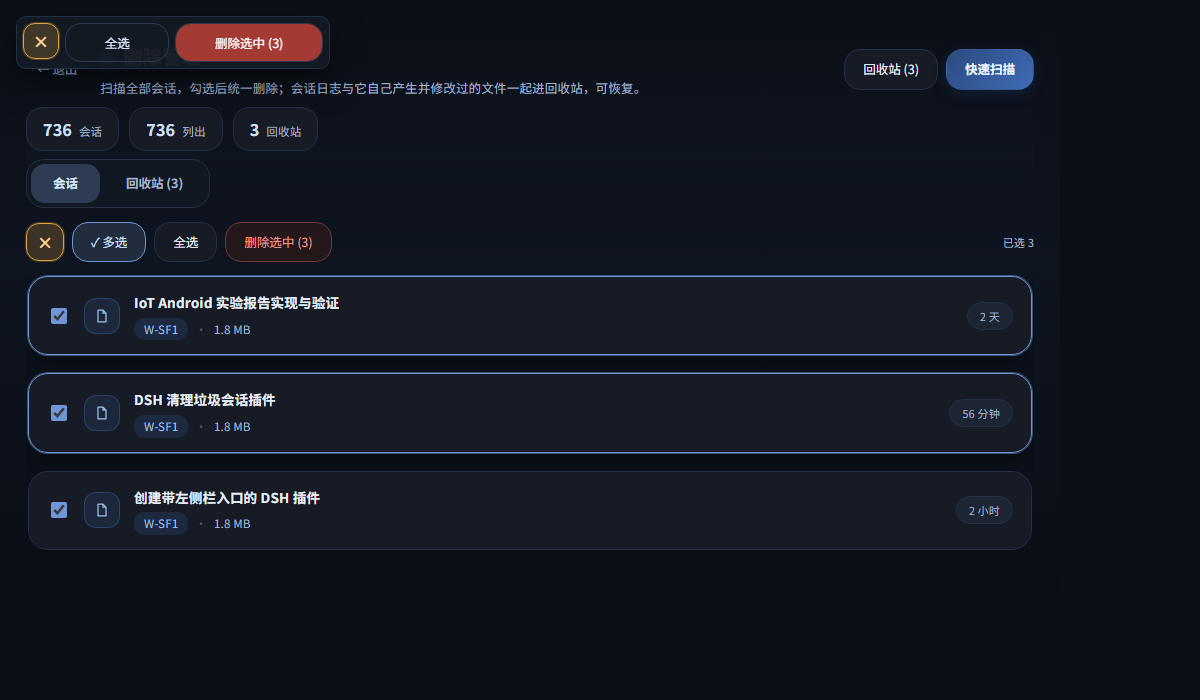
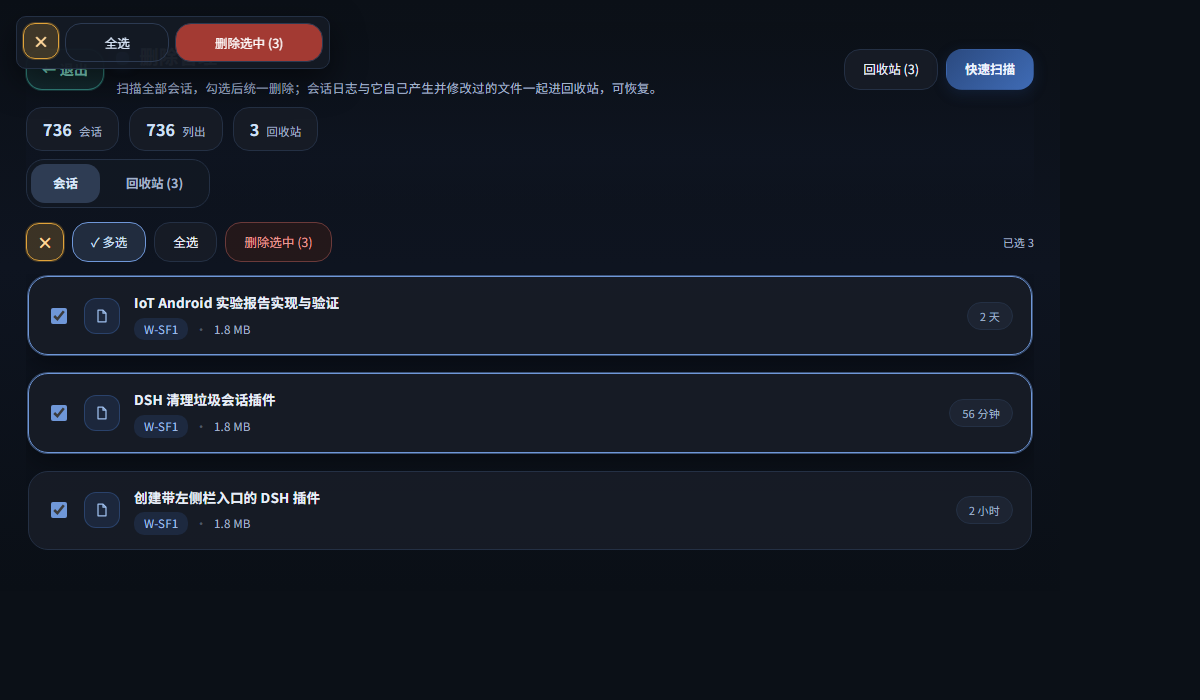
style: 退出按钮改青绿语义并放大字号（1.2.5）

Changed region(s): [[0.0308, 0.09, 0.555, 0.15]]

diff --git a/preview.html b/preview.html
@@ -1,6 +1,6 @@
 <!doctype html><html lang="zh"><head><meta charset="utf-8">
 <style>body{margin:0;background:#0b1017;font-family:"Noto Sans SC","Microsoft YaHei UI",sans-serif}
-html .__md_page{display:flex;flex-direction:column;gap:12px;max-width:1060px;height:100%;overflow-y:auto;overflow-x:hidden;padding:22px 26px 30px;font-size:13px;box-sizing:border-box;font-family:"Noto Sans SC","Microsoft YaHei UI","Microsoft YaHei","Segoe UI",system-ui,sans-serif;letter-spacing:.2px;line-height:1.65;--md-ink:#e8eef8;--md-ink2:#a3b3c9;--md-card:rgba(23,28,38,.94);--md-card2:rgba(30,36,48,.92);--md-line:#243044;--md-accent:#3f6bb5;--md-accent2:#6f97d8;--md-accent-deep:#2b4a80;color:var(--md-ink);background:linear-gradient(180deg,#0b1017 0%,#0e1420 45%,#0a0f16 100%)}.__md_page::-webkit-scrollbar{width:10px}.__md_page::-webkit-scrollbar-thumb{background:rgba(120,150,190,.28);border-radius:6px}.__md_sticky{position:sticky;top:-22px;z-index:4;display:flex;flex-direction:column;gap:8px;padding:18px 0 2px;background:linear-gradient(180deg,rgba(11,16,23,.98) 0%,rgba(14,20,32,.94) 72%,rgba(10,15,22,0) 100%)}.__md_head{display:flex;align-items:center;gap:12px}.__md_headText{flex:1 1 auto;min-width:0}.__md_title{font-size:19px;font-weight:700;margin:0;letter-spacing:.5px;color:var(--md-ink)}.__md_title:before{content:"";display:inline-block;width:13px;height:13px;border-radius:5px;margin-right:10px;vertical-align:-1px;background:linear-gradient(135deg,var(--md-accent2),var(--md-accent));box-shadow:0 0 12px rgba(63,107,181,.55)}.__md_sub{margin:6px 0 0;font-size:12.5px;line-height:1.7;color:var(--md-ink2)}.__md_row{display:flex;align-items:center;gap:8px;flex-wrap:wrap}.__md_btn{border:1px solid var(--md-line);background:var(--md-card);color:var(--md-ink);border-radius:16px;padding:9px 18px;font:inherit;font-size:12.5px;cursor:pointer;white-space:nowrap;transition:transform .1s ease,border-color .18s,color .18s,background .18s}.__md_btn:hover:not(:disabled){border-color:var(--md-accent2);color:#cfe0f8;transform:translateY(-1px)}.__md_btnExit:hover:not(:disabled){border-color:transparent;background:rgba(32,40,54,.9);color:#cfe0f8;transform:none}.__md_btn:disabled{opacity:.4;cursor:default}.__md_btnPrimary{border-color:transparent;background:linear-gradient(135deg,var(--md-accent-deep),var(--md-accent));color:#eef4ff;font-weight:600;box-shadow:0 4px 14px rgba(30,60,110,.32)}.__md_btnPrimary:hover:not(:disabled){color:#fff;border-color:transparent}.__md_btnDanger{border-color:#6b3a3a;color:#e79c96;background:rgba(38,24,26,.9)}.__md_btnSoft{border-color:#2c4472;color:#a8c4ea;background:rgba(26,36,54,.9)}.__md_btnActive{border-color:var(--md-accent2);color:#cfe0f8;background:rgba(35,45,64,.95)}.__md_btnExit{border-color:transparent;background:transparent;color:#8fa4c0;font-weight:500;padding:6px 10px;box-shadow:none}.__md_btnClose{border-color:#e0a33a;color:#ffd79a;background:rgba(224,163,58,.22);font-weight:600;font-size:16px;line-height:1;letter-spacing:0;box-shadow:0 0 0 1px rgba(224,163,58,.28);padding:0;width:38px;min-width:38px;height:38px;border-radius:13px;display:inline-flex;align-items:center;justify-content:center}.__md_btnClose:hover:not(:disabled){border-color:#f0b455;color:#ffe6bb;background:rgba(224,163,58,.32);box-shadow:0 0 0 2px rgba(224,163,58,.3)}.__md_metaBar{display:flex;gap:10px;flex-wrap:wrap}.__md_stat{display:flex;align-items:baseline;gap:7px;padding:8px 16px;border-radius:16px;background:var(--md-card);border:1px solid var(--md-line)}.__md_stat b{font-size:16px;font-weight:700;color:#cfe0f8;font-variant-numeric:tabular-nums}.__md_stat i{font-style:normal;font-size:11.5px;color:var(--md-ink2)}.__md_tabs{display:inline-flex;gap:4px;padding:4px;border-radius:18px;background:rgba(18,24,34,.9);border:1px solid var(--md-line);width:max-content}.__md_tab{border:none;background:transparent;color:var(--md-ink2);font:inherit;font-size:12.5px;padding:9px 22px;border-radius:14px;cursor:pointer;font-weight:600;transition:background .18s,color .18s}.__md_tabOn{background:rgba(48,62,86,.95);color:#dbe8fa}.__md_toolbar{display:flex;align-items:center;gap:8px;flex-wrap:wrap;padding:0}.__md_list{display:flex;flex-direction:column;gap:9px;max-height:calc(100vh - 340px);overflow-y:auto;padding:2px;min-height:160px}.__md_card{display:flex;align-items:center;gap:14px;padding:14px 18px;border-radius:20px;background:var(--md-card);border:1px solid var(--md-line);transition:transform .12s ease,border-color .18s,background .18s}.__md_card:hover{transform:translateY(-1px);background:var(--md-card2);border-color:#31415c}.__md_cardOn{border-color:var(--md-accent2);box-shadow:0 0 0 1px rgba(111,151,216,.5),0 10px 26px rgba(0,0,0,.35)}.__md_avatar{width:34px;height:34px;border-radius:12px;flex:none;display:flex;align-items:center;justify-content:center;color:#9fc0ee;background:rgba(63,107,181,.16);border:1px solid rgba(63,107,181,.4)}.__md_item{min-width:0;flex:1 1 auto}.__md_itemTitle{overflow:hidden;text-overflow:ellipsis;white-space:nowrap;font-size:13.5px;font-weight:600;letter-spacing:.2px;color:var(--md-ink)}.__md_itemMeta{display:flex;align-items:center;gap:7px;margin-top:4px;font-size:11.5px;color:var(--md-ink2);overflow:hidden;white-space:nowrap}.__md_tag{padding:2px 10px;border-radius:10px;background:rgba(63,107,181,.18);color:#9fbde6;max-width:230px;overflow:hidden;text-overflow:ellipsis}.__md_dot{opacity:.4}.__md_right{display:flex;align-items:center;gap:9px;flex:none}.__md_pill{font-size:11px;color:#9fb0c8;padding:4px 12px;border-radius:999px;background:rgba(30,38,52,.9);border:1px solid var(--md-line);white-space:nowrap}.__md_empty{padding:40px 16px;text-align:center;color:var(--md-ink2);font-size:12.5px;display:flex;flex-direction:column;align-items:center}.__md_notice{font-size:12px;color:#a9c8ee;background:rgba(26,38,58,.9);border:1px solid #2c4472;border-radius:14px;padding:10px 14px;white-space:pre-wrap}.__md_err{font-size:12px;color:#efa9a3;background:rgba(44,26,28,.92);border:1px solid #6b3a3a;border-radius:14px;padding:10px 14px;white-space:pre-wrap}.__md_hint{font-size:11px;color:var(--md-ink2)}.__md_check{accent-color:var(--md-accent2);cursor:pointer;width:16px;height:16px;flex:none}.__md_iconBtn{border:none;background:rgba(32,40,54,.85);color:#8fa4c0;cursor:pointer;padding:6px;border-radius:11px;display:inline-flex;align-items:center;transition:color .18s,background .18s}.__md_iconBtn:hover{color:#f0a8a2;background:rgba(60,32,34,.9)}.__md_mask,.__md_bar{--md-ink:#e8eef8;--md-ink2:#93a1b8;--md-card:rgba(23,28,38,.94);--md-card2:rgba(30,36,48,.92);--md-line:#243044;--md-accent:#3f6bb5;--md-accent2:#6f97d8;--md-accent-deep:#2b4a80;color:#e8eef8}.__md_mask{position:fixed;inset:0;background:rgba(3,7,12,.66);backdrop-filter:blur(4px);display:flex;align-items:center;justify-content:center;z-index:1000}.__md_dialog{width:min(560px,92vw);background:linear-gradient(180deg,#161c27,#111721);color:var(--md-ink);border:1px solid var(--md-line);border-radius:24px;padding:26px 28px;display:flex;flex-direction:column;gap:13px;box-shadow:0 30px 80px rgba(0,0,0,.6)}.__md_dialogTitle{font-size:16px;font-weight:700;margin:0;letter-spacing:.4px}.__md_dialogBody{font-size:12.5px;color:var(--md-ink2);white-space:pre-wrap;margin:0;line-height:1.7}.__md_dialogList{max-height:150px;overflow:auto;border:1px solid var(--md-line);border-radius:14px;padding:9px 13px;font-size:12px;background:rgba(18,24,34,.9)}.__md_dialogList div{overflow:hidden;text-overflow:ellipsis;white-space:nowrap;padding:2px 0}.__md_opt{display:flex;gap:10px;align-items:flex-start;font-size:12px;padding:12px 14px;border:1px solid var(--md-line);border-radius:16px;background:rgba(24,31,42,.9)}.__md_files{margin:0;padding-left:18px;font-size:11.5px;color:var(--md-ink2);max-height:120px;overflow:auto}</style></head><body>
+html .__md_page{display:flex;flex-direction:column;gap:12px;max-width:1060px;height:100%;overflow-y:auto;overflow-x:hidden;padding:22px 26px 30px;font-size:13px;box-sizing:border-box;font-family:"Noto Sans SC","Microsoft YaHei UI","Microsoft YaHei","Segoe UI",system-ui,sans-serif;letter-spacing:.2px;line-height:1.65;--md-ink:#e8eef8;--md-ink2:#a3b3c9;--md-card:rgba(23,28,38,.94);--md-card2:rgba(30,36,48,.92);--md-line:#243044;--md-accent:#3f6bb5;--md-accent2:#6f97d8;--md-accent-deep:#2b4a80;color:var(--md-ink);background:linear-gradient(180deg,#0b1017 0%,#0e1420 45%,#0a0f16 100%)}.__md_page::-webkit-scrollbar{width:10px}.__md_page::-webkit-scrollbar-thumb{background:rgba(120,150,190,.28);border-radius:6px}.__md_sticky{position:sticky;top:-22px;z-index:4;display:flex;flex-direction:column;gap:8px;padding:18px 0 2px;background:linear-gradient(180deg,rgba(11,16,23,.98) 0%,rgba(14,20,32,.94) 72%,rgba(10,15,22,0) 100%)}.__md_head{display:flex;align-items:center;gap:12px}.__md_headText{flex:1 1 auto;min-width:0}.__md_title{font-size:19px;font-weight:700;margin:0;letter-spacing:.5px;color:var(--md-ink)}.__md_title:before{content:"";display:inline-block;width:13px;height:13px;border-radius:5px;margin-right:10px;vertical-align:-1px;background:linear-gradient(135deg,var(--md-accent2),var(--md-accent));box-shadow:0 0 12px rgba(63,107,181,.55)}.__md_sub{margin:6px 0 0;font-size:12.5px;line-height:1.7;color:var(--md-ink2)}.__md_row{display:flex;align-items:center;gap:8px;flex-wrap:wrap}.__md_btn{border:1px solid var(--md-line);background:var(--md-card);color:var(--md-ink);border-radius:16px;padding:9px 18px;font:inherit;font-size:12.5px;cursor:pointer;white-space:nowrap;transition:transform .1s ease,border-color .18s,color .18s,background .18s}.__md_btn:hover:not(:disabled){border-color:var(--md-accent2);color:#cfe0f8;transform:translateY(-1px)}.__md_btnExit:hover:not(:disabled){border-color:#5fd6c2;background:rgba(72,196,180,.24);color:#b8f4ea;transform:none;box-shadow:0 0 0 2px rgba(72,196,180,.28)}.__md_btn:disabled{opacity:.4;cursor:default}.__md_btnPrimary{border-color:transparent;background:linear-gradient(135deg,var(--md-accent-deep),var(--md-accent));color:#eef4ff;font-weight:600;box-shadow:0 4px 14px rgba(30,60,110,.32)}.__md_btnPrimary:hover:not(:disabled){color:#fff;border-color:transparent}.__md_btnDanger{border-color:#6b3a3a;color:#e79c96;background:rgba(38,24,26,.9)}.__md_btnSoft{border-color:#2c4472;color:#a8c4ea;background:rgba(26,36,54,.9)}.__md_btnActive{border-color:var(--md-accent2);color:#cfe0f8;background:rgba(35,45,64,.95)}.__md_btnExit{border-color:rgba(72,196,180,.6);background:rgba(72,196,180,.14);color:#8fe3d4;font-weight:600;font-size:14px;padding:8px 15px;letter-spacing:.3px;box-shadow:0 0 0 1px rgba(72,196,180,.22)}.__md_btnClose{border-color:#e0a33a;color:#ffd79a;background:rgba(224,163,58,.22);font-weight:600;font-size:16px;line-height:1;letter-spacing:0;box-shadow:0 0 0 1px rgba(224,163,58,.28);padding:0;width:38px;min-width:38px;height:38px;border-radius:13px;display:inline-flex;align-items:center;justify-content:center}.__md_btnClose:hover:not(:disabled){border-color:#f0b455;color:#ffe6bb;background:rgba(224,163,58,.32);box-shadow:0 0 0 2px rgba(224,163,58,.3)}.__md_metaBar{display:flex;gap:10px;flex-wrap:wrap}.__md_stat{display:flex;align-items:baseline;gap:7px;padding:8px 16px;border-radius:16px;background:var(--md-card);border:1px solid var(--md-line)}.__md_stat b{font-size:16px;font-weight:700;color:#cfe0f8;font-variant-numeric:tabular-nums}.__md_stat i{font-style:normal;font-size:11.5px;color:var(--md-ink2)}.__md_tabs{display:inline-flex;gap:4px;padding:4px;border-radius:18px;background:rgba(18,24,34,.9);border:1px solid var(--md-line);width:max-content}.__md_tab{border:none;background:transparent;color:var(--md-ink2);font:inherit;font-size:12.5px;padding:9px 22px;border-radius:14px;cursor:pointer;font-weight:600;transition:background .18s,color .18s}.__md_tabOn{background:rgba(48,62,86,.95);color:#dbe8fa}.__md_toolbar{display:flex;align-items:center;gap:8px;flex-wrap:wrap;padding:0}.__md_list{display:flex;flex-direction:column;gap:9px;max-height:calc(100vh - 340px);overflow-y:auto;padding:2px;min-height:160px}.__md_card{display:flex;align-items:center;gap:14px;padding:14px 18px;border-radius:20px;background:var(--md-card);border:1px solid var(--md-line);transition:transform .12s ease,border-color .18s,background .18s}.__md_card:hover{transform:translateY(-1px);background:var(--md-card2);border-color:#31415c}.__md_cardOn{border-color:var(--md-accent2);box-shadow:0 0 0 1px rgba(111,151,216,.5),0 10px 26px rgba(0,0,0,.35)}.__md_avatar{width:34px;height:34px;border-radius:12px;flex:none;display:flex;align-items:center;justify-content:center;color:#9fc0ee;background:rgba(63,107,181,.16);border:1px solid rgba(63,107,181,.4)}.__md_item{min-width:0;flex:1 1 auto}.__md_itemTitle{overflow:hidden;text-overflow:ellipsis;white-space:nowrap;font-size:13.5px;font-weight:600;letter-spacing:.2px;color:var(--md-ink)}.__md_itemMeta{display:flex;align-items:center;gap:7px;margin-top:4px;font-size:11.5px;color:var(--md-ink2);overflow:hidden;white-space:nowrap}.__md_tag{padding:2px 10px;border-radius:10px;background:rgba(63,107,181,.18);color:#9fbde6;max-width:230px;overflow:hidden;text-overflow:ellipsis}.__md_dot{opacity:.4}.__md_right{display:flex;align-items:center;gap:9px;flex:none}.__md_pill{font-size:11px;color:#9fb0c8;padding:4px 12px;border-radius:999px;background:rgba(30,38,52,.9);border:1px solid var(--md-line);white-space:nowrap}.__md_empty{padding:40px 16px;text-align:center;color:var(--md-ink2);font-size:12.5px;display:flex;flex-direction:column;align-items:center}.__md_notice{font-size:12px;color:#a9c8ee;background:rgba(26,38,58,.9);border:1px solid #2c4472;border-radius:14px;padding:10px 14px;white-space:pre-wrap}.__md_err{font-size:12px;color:#efa9a3;background:rgba(44,26,28,.92);border:1px solid #6b3a3a;border-radius:14px;padding:10px 14px;white-space:pre-wrap}.__md_hint{font-size:11px;color:var(--md-ink2)}.__md_check{accent-color:var(--md-accent2);cursor:pointer;width:16px;height:16px;flex:none}.__md_iconBtn{border:none;background:rgba(32,40,54,.85);color:#8fa4c0;cursor:pointer;padding:6px;border-radius:11px;display:inline-flex;align-items:center;transition:color .18s,background .18s}.__md_iconBtn:hover{color:#f0a8a2;background:rgba(60,32,34,.9)}.__md_mask,.__md_bar{--md-ink:#e8eef8;--md-ink2:#93a1b8;--md-card:rgba(23,28,38,.94);--md-card2:rgba(30,36,48,.92);--md-line:#243044;--md-accent:#3f6bb5;--md-accent2:#6f97d8;--md-accent-deep:#2b4a80;color:#e8eef8}.__md_mask{position:fixed;inset:0;background:rgba(3,7,12,.66);backdrop-filter:blur(4px);display:flex;align-items:center;justify-content:center;z-index:1000}.__md_dialog{width:min(560px,92vw);background:linear-gradient(180deg,#161c27,#111721);color:var(--md-ink);border:1px solid var(--md-line);border-radius:24px;padding:26px 28px;display:flex;flex-direction:column;gap:13px;box-shadow:0 30px 80px rgba(0,0,0,.6)}.__md_dialogTitle{font-size:16px;font-weight:700;margin:0;letter-spacing:.4px}.__md_dialogBody{font-size:12.5px;color:var(--md-ink2);white-space:pre-wrap;margin:0;line-height:1.7}.__md_dialogList{max-height:150px;overflow:auto;border:1px solid var(--md-line);border-radius:14px;padding:9px 13px;font-size:12px;background:rgba(18,24,34,.9)}.__md_dialogList div{overflow:hidden;text-overflow:ellipsis;white-space:nowrap;padding:2px 0}.__md_opt{display:flex;gap:10px;align-items:flex-start;font-size:12px;padding:12px 14px;border:1px solid var(--md-line);border-radius:16px;background:rgba(24,31,42,.9)}.__md_files{margin:0;padding-left:18px;font-size:11.5px;color:var(--md-ink2);max-height:120px;overflow:auto}</style></head><body>
 
 <div class="__md_bar" style="position:fixed;left:16px;top:16px;width:300px;z-index:45;display:flex;gap:6px;padding:6px;border-radius:10px;background:rgba(20,26,36,.97);border:1px solid #243044;box-shadow:0 12px 32px rgba(0,0,0,.5)">
   <button class="__md_btn __md_btnClose" style="flex:0 0 auto;width:36px;min-width:36px;height:36px;border-radius:12px;font-size:16px">×</button>

diff --git a/client.js b/client.js
@@ -389,7 +389,7 @@ window.__ModuleLoader__.load({
       '.__md_btn{border:1px solid var(--md-line);background:var(--md-card);color:var(--md-ink);border-radius:16px;padding:9px 18px;font:inherit;font-size:12.5px;cursor:pointer;',
       'white-space:nowrap;transition:transform .1s ease,border-color .18s,color .18s,background .18s}',
       '.__md_btn:hover:not(:disabled){border-color:var(--md-accent2);color:#cfe0f8;transform:translateY(-1px)}',
-      '.__md_btnExit:hover:not(:disabled){border-color:transparent;background:rgba(32,40,54,.9);color:#cfe0f8;transform:none}',
+      '.__md_btnExit:hover:not(:disabled){border-color:#5fd6c2;background:rgba(72,196,180,.24);color:#b8f4ea;transform:none;box-shadow:0 0 0 2px rgba(72,196,180,.28)}',
       '.__md_btn:disabled{opacity:.4;cursor:default}',
       '.__md_btnPrimary{border-color:transparent;background:linear-gradient(135deg,var(--md-accent-deep),var(--md-accent));color:#eef4ff;font-weight:600;',
       'box-shadow:0 4px 14px rgba(30,60,110,.32)}',
@@ -397,7 +397,7 @@ window.__ModuleLoader__.load({
       '.__md_btnDanger{border-color:#6b3a3a;color:#e79c96;background:rgba(38,24,26,.9)}',
       '.__md_btnSoft{border-color:#2c4472;color:#a8c4ea;background:rgba(26,36,54,.9)}',
       '.__md_btnActive{border-color:var(--md-accent2);color:#cfe0f8;background:rgba(35,45,64,.95)}',
-      '.__md_btnExit{border-color:transparent;background:transparent;color:#8fa4c0;font-weight:500;padding:6px 10px;box-shadow:none}',
+      '.__md_btnExit{border-color:rgba(72,196,180,.6);background:rgba(72,196,180,.14);color:#8fe3d4;font-weight:600;font-size:14px;padding:8px 15px;letter-spacing:.3px;box-shadow:0 0 0 1px rgba(72,196,180,.22)}',
       '.__md_btnClose{border-color:#e0a33a;color:#ffd79a;background:rgba(224,163,58,.22);font-weight:600;font-size:16px;line-height:1;letter-spacing:0;box-shadow:0 0 0 1px rgba(224,163,58,.28);padding:0;width:38px;min-width:38px;height:38px;border-radius:13px;display:inline-flex;align-items:center;justify-content:center}',
       '.__md_btnClose:hover:not(:disabled){border-color:#f0b455;color:#ffe6bb;background:rgba(224,163,58,.32);box-shadow:0 0 0 2px rgba(224,163,58,.3)}',
       '.__md_metaBar{display:flex;gap:10px;flex-wrap:wrap}',

diff --git a/CHANGELOG.md b/CHANGELOG.md
@@ -1,5 +1,12 @@
 # Changelog
 
+## [1.2.5] — 2026-11-06
+
+### Changed
+
+- 「退出」按钮换成青绿色语义（描边 #48c4b4、字 #8fe3d4、浅青底），字号 12.5 → 14，加 1px 青色外圈。
+- 现在四种颜色各管一件事：青=退出、金=取消选择、蓝=主操作、红=删除。
+
 ## [1.2.4] — 2026-11-06
 
 ### Fixed
